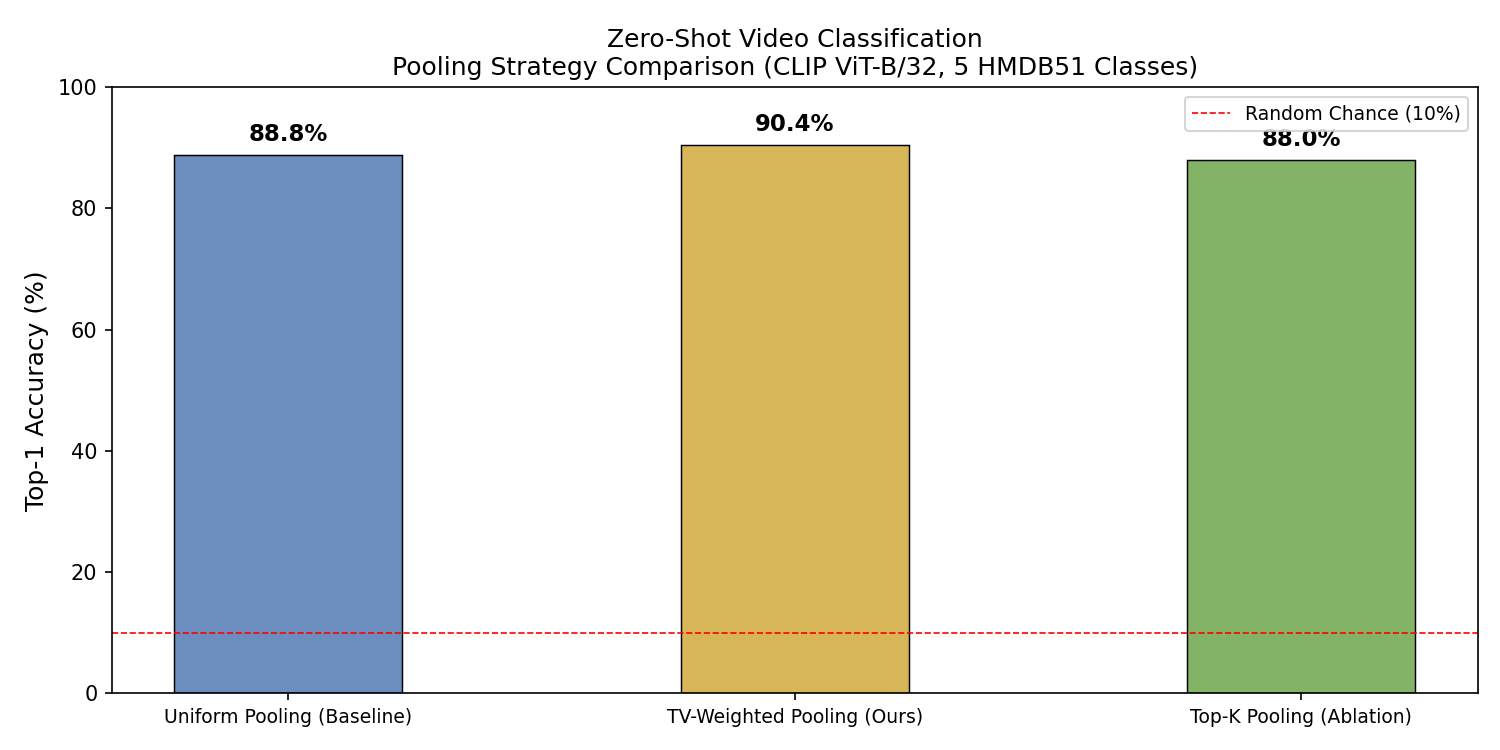
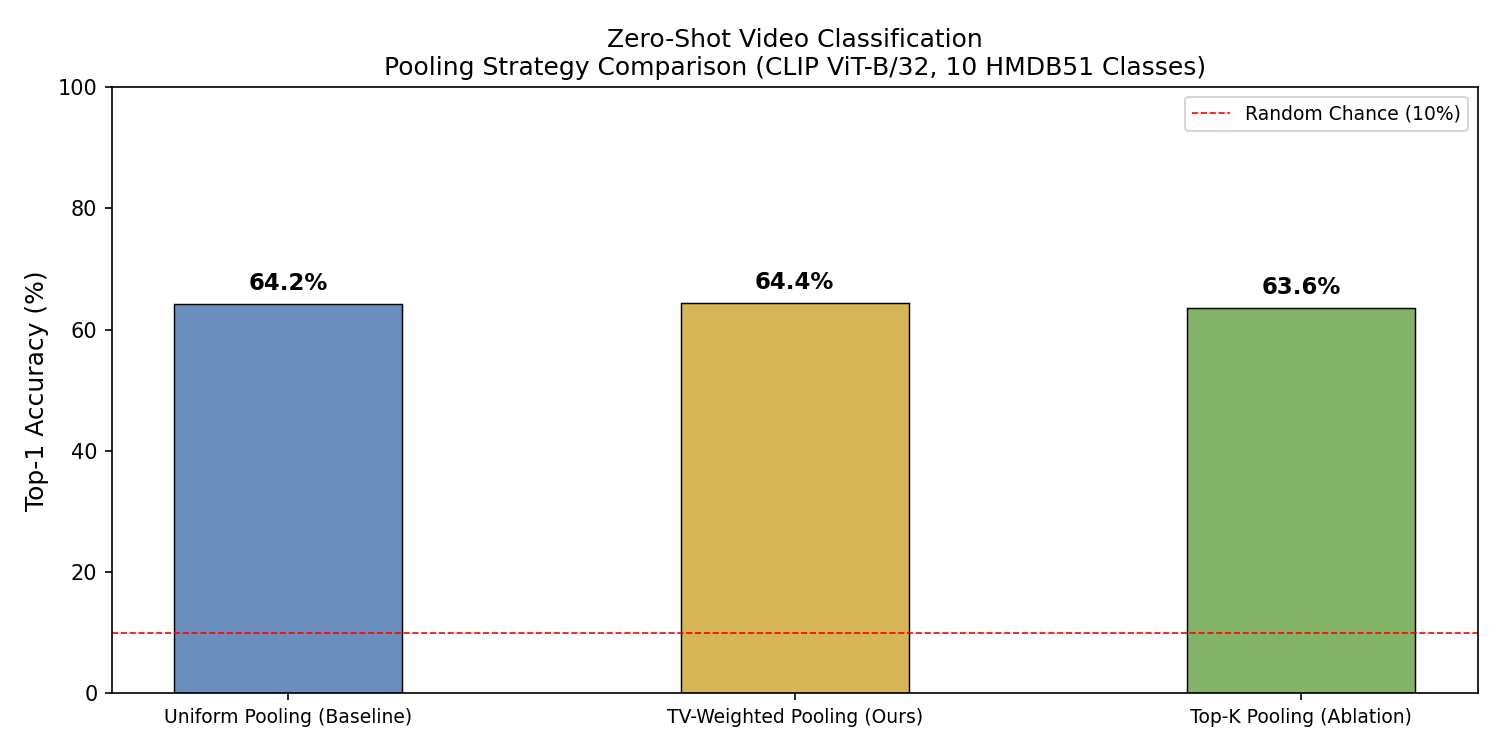
changed 5->10 class

diff --git a/visualize.py b/visualize.py
@@ -21,7 +21,7 @@ def plot_accuracy_bar(results, save_path=None):
     ax.set_ylabel("Top-1 Accuracy (%)", fontsize=12)
     ax.set_title(
         "Zero-Shot Video Classification\n"
-        "Pooling Strategy Comparison (CLIP ViT-B/32, 5 HMDB51 Classes)",
+        "Pooling Strategy Comparison (CLIP ViT-B/32, 10 HMDB51 Classes)",
         fontsize=12
     )
     ax.set_ylim(0, 100)
@@ -67,7 +67,7 @@ def plot_per_class_accuracy(per_class_results, save_path=None):
     ax.set_ylabel("Top-1 Accuracy (%)", fontsize=11)
     ax.set_title(
         "Per-Class Accuracy Breakdown\n"
-        "Pooling Strategy Comparison (CLIP ViT-B/32, 5 HMDB51 Classes)",
+        "Pooling Strategy Comparison (CLIP ViT-B/32, 10 HMDB51 Classes)",
         fontsize=12
     )
     ax.set_xticks(x)

diff --git a/config.py b/config.py
@@ -6,9 +6,10 @@ FRAMES_DIR      = os.path.join(DATA_DIR, "frames")
 FEATURES_DIR    = os.path.join(DATA_DIR, "features")
 RESULTS_DIR     = "results"
 
-CLASSES             = ["clap", "dive", "run", "shoot_ball", "swing_baseball"]
+CLASSES             = ["clap", "dive", "run", "shoot_ball", "swing_baseball",
+                       "jump", "kick_ball", "ride_bike", "walk", "punch"]
 NUM_FRAMES          = 8
-MAX_VIDEOS_PER_CLASS = 25
+MAX_VIDEOS_PER_CLASS = 50
 TOPK                = 4
 
 HMDB51_URL  = "http://serre-lab.clps.brown.edu/wp-content/uploads/2013/10/hmdb51_org.rar"
